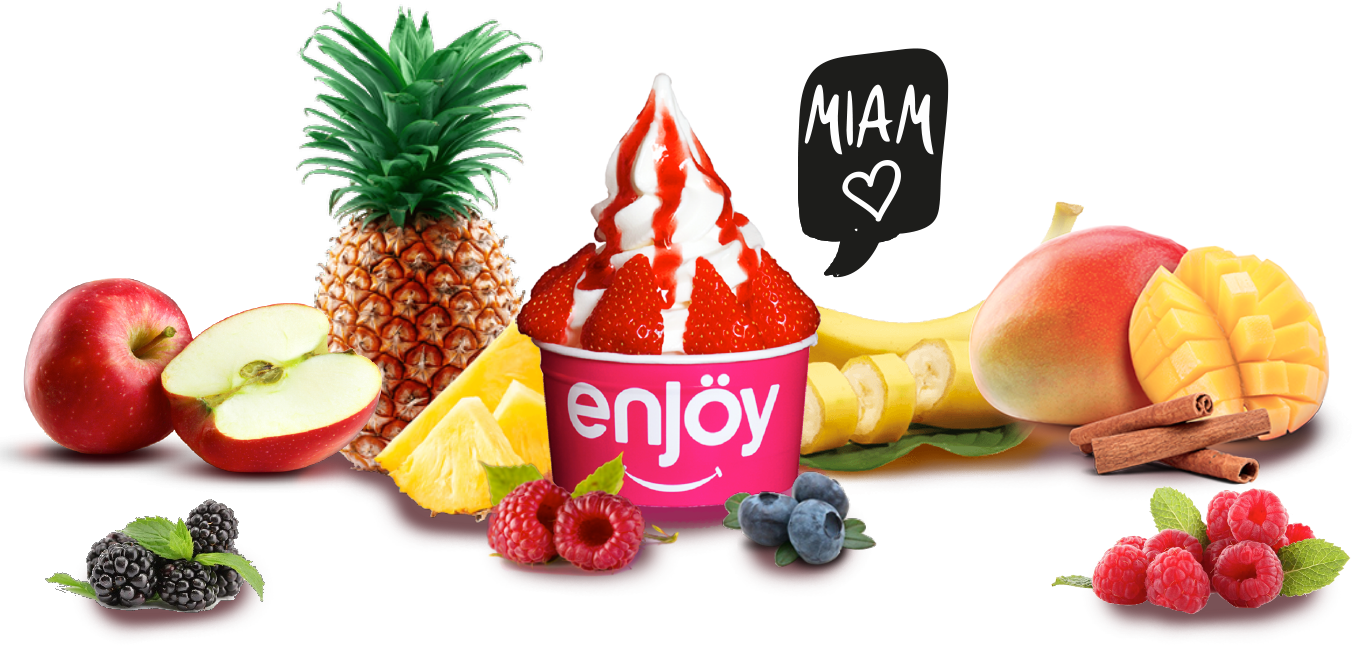
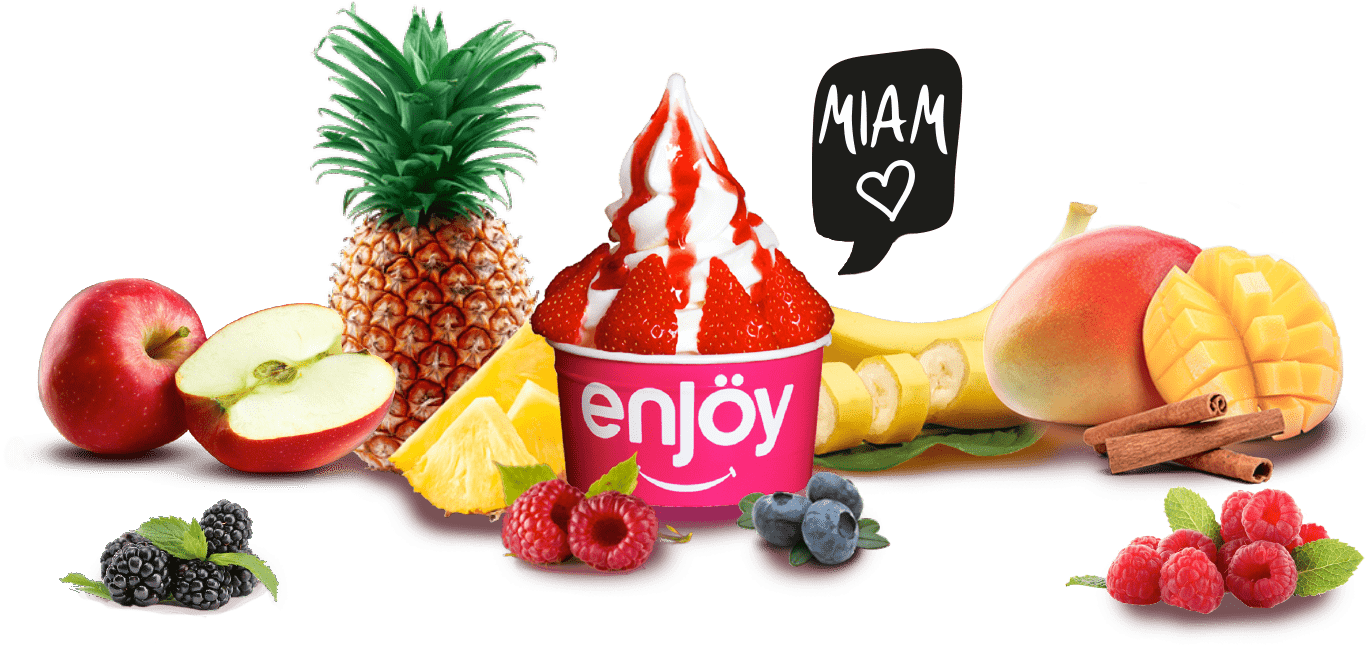
[responsive:scss] "header" responsive

diff --git a/app/scss/header/header.scss b/app/scss/header/header.scss
@@ -2,41 +2,34 @@
   position: relative;
   width: 100%;
   height: 73vh;
-  /*border: $debugBorder;*/
-  background: url('../images/bg-header.svg');
-
+  @include only-phone {
+    background: url('../images/bg-header.svg');
+  }
   @include tablet {
     background: url('../images/bg-header-desktop.svg');
   }
-
+  & .main-image {
+    margin: 0 auto;
+    height: 100%;
+    background-repeat: no-repeat;
+    background-size: contain;
+    background-position: center;
+    @include only-phone {
+      width: 90%;
+      max-width: 360px;
+      background-image: url("../images/glace1.png");
+    }
+    @include tablet {
+      width: 100%;
+      max-width: 100%;
+      background-image: url("../images/fruits.png");
+    }
+  }
   .logo {
     width: 106px;
     height: auto;
     position: absolute;
     top: 19px;
     left: 21px;
-  }
-  #main-image-small {
-    position: absolute;
-    left: 56%;
-    top: 50%;
-    width: 70%;
-    transform: translate(-50%, -50%);
-
-    @include large-phone {
-      width: 300px;
-    }
-  }
-
-  #main-image-large {
-    position: absolute;
-    left: 50%;
-    top: 53%;
-    width: 95%;
-    transform: translate(-50%, -50%);
-
-    @include desktop {
-      width: 971px;
-    }
   }
 }

diff --git a/app/scss/blocks/global-blocks.scss b/app/scss/blocks/global-blocks.scss
@@ -42,9 +42,10 @@ body {
   margin-top: 220px;
   width: 100%;
   height: 90vh;
-  background: url('../images/bg-content-2.svg');
   background-size: cover;
-
+  @include only-phone {
+    background: url('../images/bg-content-2.svg');
+  }
   @include tablet {
     background: url('../images/bg-content-2-desktop.svg');
   }
@@ -190,7 +191,6 @@ body {
   }
   & .block-4-img {
     position: relative;
-    /*border:1px solid;*/
     height: 130px;
     & img {
       position: absolute;
@@ -250,8 +250,6 @@ body {
     position: absolute;
     width: 21%;
     max-width: 228px;
-    //margin-top: -20px;
-    //transform: translate(375%, 0%);
     right: 0;
   }
   & .block-flex {
@@ -332,7 +330,6 @@ body {
     width: 100%;
     & .container-text {
       margin: 0 auto 30px auto;
-      /*border:1px solid;*/
       display: flex;
       flex-direction: column;
       align-items: center;
@@ -351,7 +348,6 @@ body {
   & .block-slider-flex {
     position: relative;
     padding-bottom: 5px;
-    //border-bottom: 2px solid #DDDDDD;
     padding-top: 30px;
     margin: 0 auto;
     width: 35%;

diff --git a/app/index.html b/app/index.html
@@ -7,15 +7,13 @@
   <link rel="stylesheet" href="./css/vendor.css">
   <script defer src="./js/vendor.js"></script>
   <script defer src="./js/app.js"></script>
-  <script src="./js/changeImage.js"></script>
 </head>
 <body>
 <header class="main-header">
   <h1>
     <img class="logo" src="images/logo.png" alt="Enjoy">
   </h1>
-  <img src="images/glace1.png" alt="glace_miam" draggable="false" id="main-image-small"/>
-  <img src="images/fruits.png" alt="glace_miam" draggable="false" id="main-image-large"/>
+  <div class="main-image"></div>
 </header>
 
 <section class="blocks-wrapper">
@@ -198,7 +196,7 @@
           </div>
         </div>
       </div>
-      </div>
+    </div>
     <div class="block-flex">
       <div class="singleBlock">
         <div class="cube cube-rouge">

diff --git a/app/scss/mixin.scss b/app/scss/mixin.scss
@@ -15,6 +15,12 @@ $desktop-width: 1024px;
   }
 }
 
+@mixin only-phone {
+  @media (max-width: #{$tablet-width - 1px}) {
+    @content;
+  }
+}
+
 @mixin tablet {
   @media (min-width: #{$tablet-width}) {
     @content;
